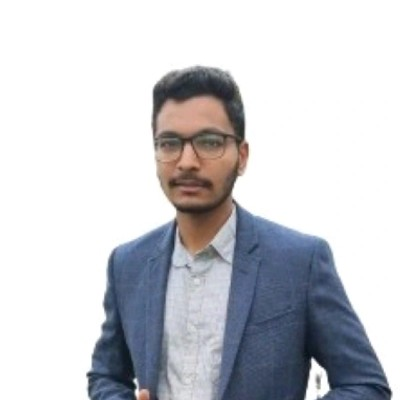
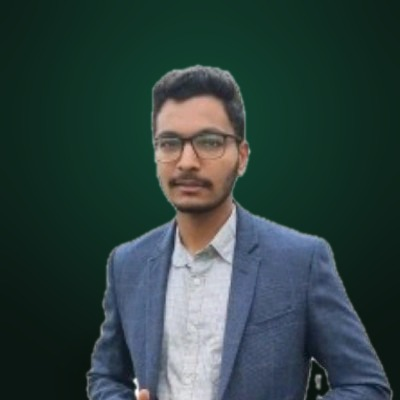
De-vibe-code: professional copy, real resume work, photo on aurora bg
- Hero: 'Software Engineer' eyebrow (was buzzword stack); green availability
  dot (was amber/error-red); 'Open to opportunities'; removed fake HUD
  coordinates and the SCROLL label
- Projects: keep the spiral for live demos but professional copy
  ('Selected work' / 'Live projects', no vortex/singularity/orbit);
  stronger card borders + shadow so they don't blend on mobile
- New 'Production & research' section: real resume work that has no public
  demo (Modular ERP, XAI malware-detection research, Ansible automation)
  as clean icon + badge detail cards
- About: removed employer name (Sanadi Technologies)
- Contact: LinkedIn/GitHub/email logos on the buttons (consistent on mobile);
  'Get in touch' kicker (was 'channel open · replies within 24h')
- Photo: cut off the white background, composited onto an aurora-on-black
  backdrop with a soft glow to match the site (original kept as backup)

diff --git a/src/config.ts b/src/config.ts
@@ -188,11 +188,43 @@ export const PROJECTS: Project[] = [
   },
 ];
 
+// ── Other work (production / research — no public demo) ─────
+export type Work = {
+  title: string;
+  kind: string; // Production · Research · DevOps
+  description: string;
+  tags: string[];
+};
+
+export const OTHER_WORK: Work[] = [
+  {
+    title: "Modular ERP System",
+    kind: "Production",
+    description:
+      "A full-stack ERP with 5+ modules handling end-to-end business operations across departments. Built with Django and React, deployed on AWS (EC2, S3, RDS/PostgreSQL), containerised with Docker and orchestrated on Kubernetes at 99.9% uptime.",
+    tags: ["Django", "React", "AWS", "Docker", "Kubernetes", "PostgreSQL"],
+  },
+  {
+    title: "Explainable AI for Android Malware Detection",
+    kind: "M.Tech research",
+    description:
+      "A research project using SHAP and LIME over improved ML models to make Android malware detection transparent and interpretable, not just accurate, so each prediction can be explained.",
+    tags: ["Python", "Machine Learning", "SHAP", "LIME"],
+  },
+  {
+    title: "Infrastructure Automation with Ansible",
+    kind: "DevOps",
+    description:
+      "Automated AWS EC2 provisioning and package/Yum configuration with Ansible playbooks, cutting manual server setup time significantly and keeping environments reproducible.",
+    tags: ["Ansible", "AWS EC2", "Linux", "Bash"],
+  },
+];
+
 // ── Nav links (in-page anchors) ─────────────────────────────
 export const NAV = [
   { label: "About", href: "#about" },
   { label: "Experience", href: "#experience" },
   { label: "Skills", href: "#skills" },
-  { label: "Projects", href: "#projects" },
+  { label: "Work", href: "#projects" },
   { label: "Contact", href: "#contact" },
 ];